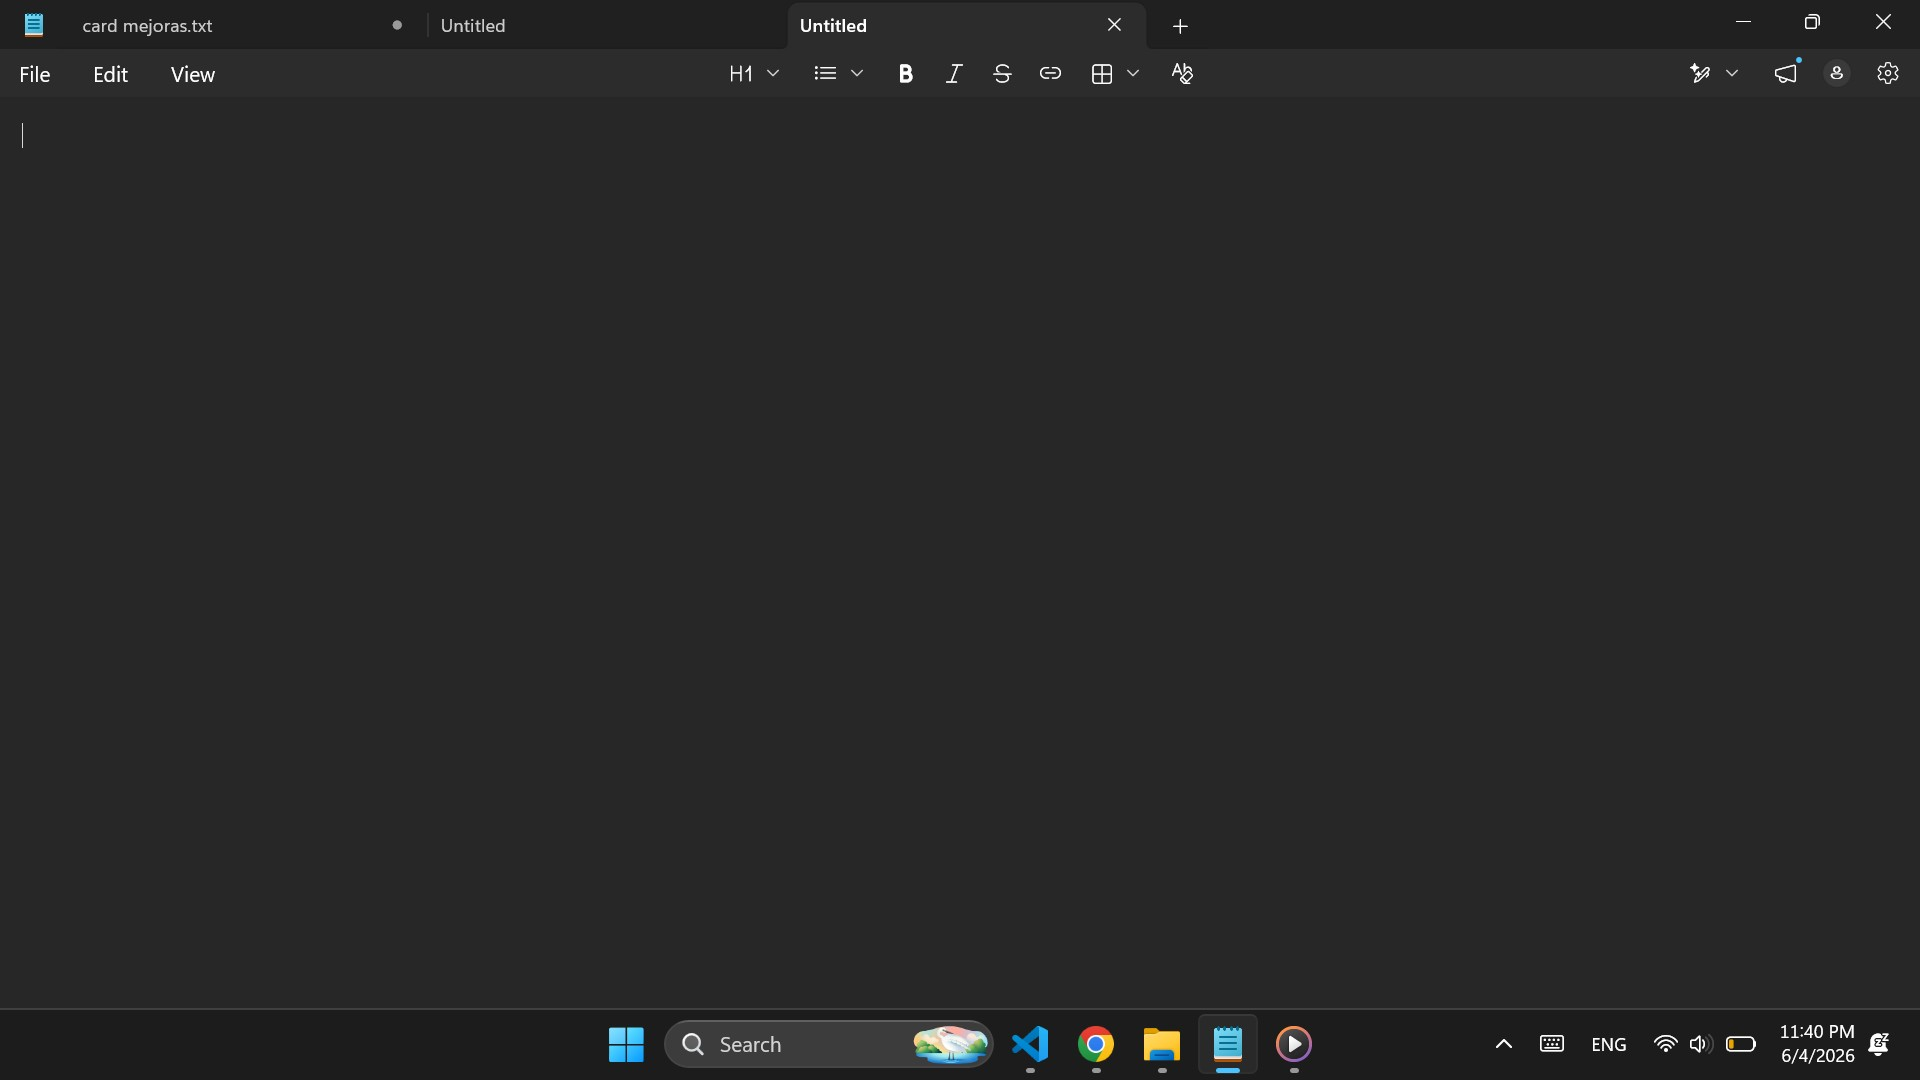
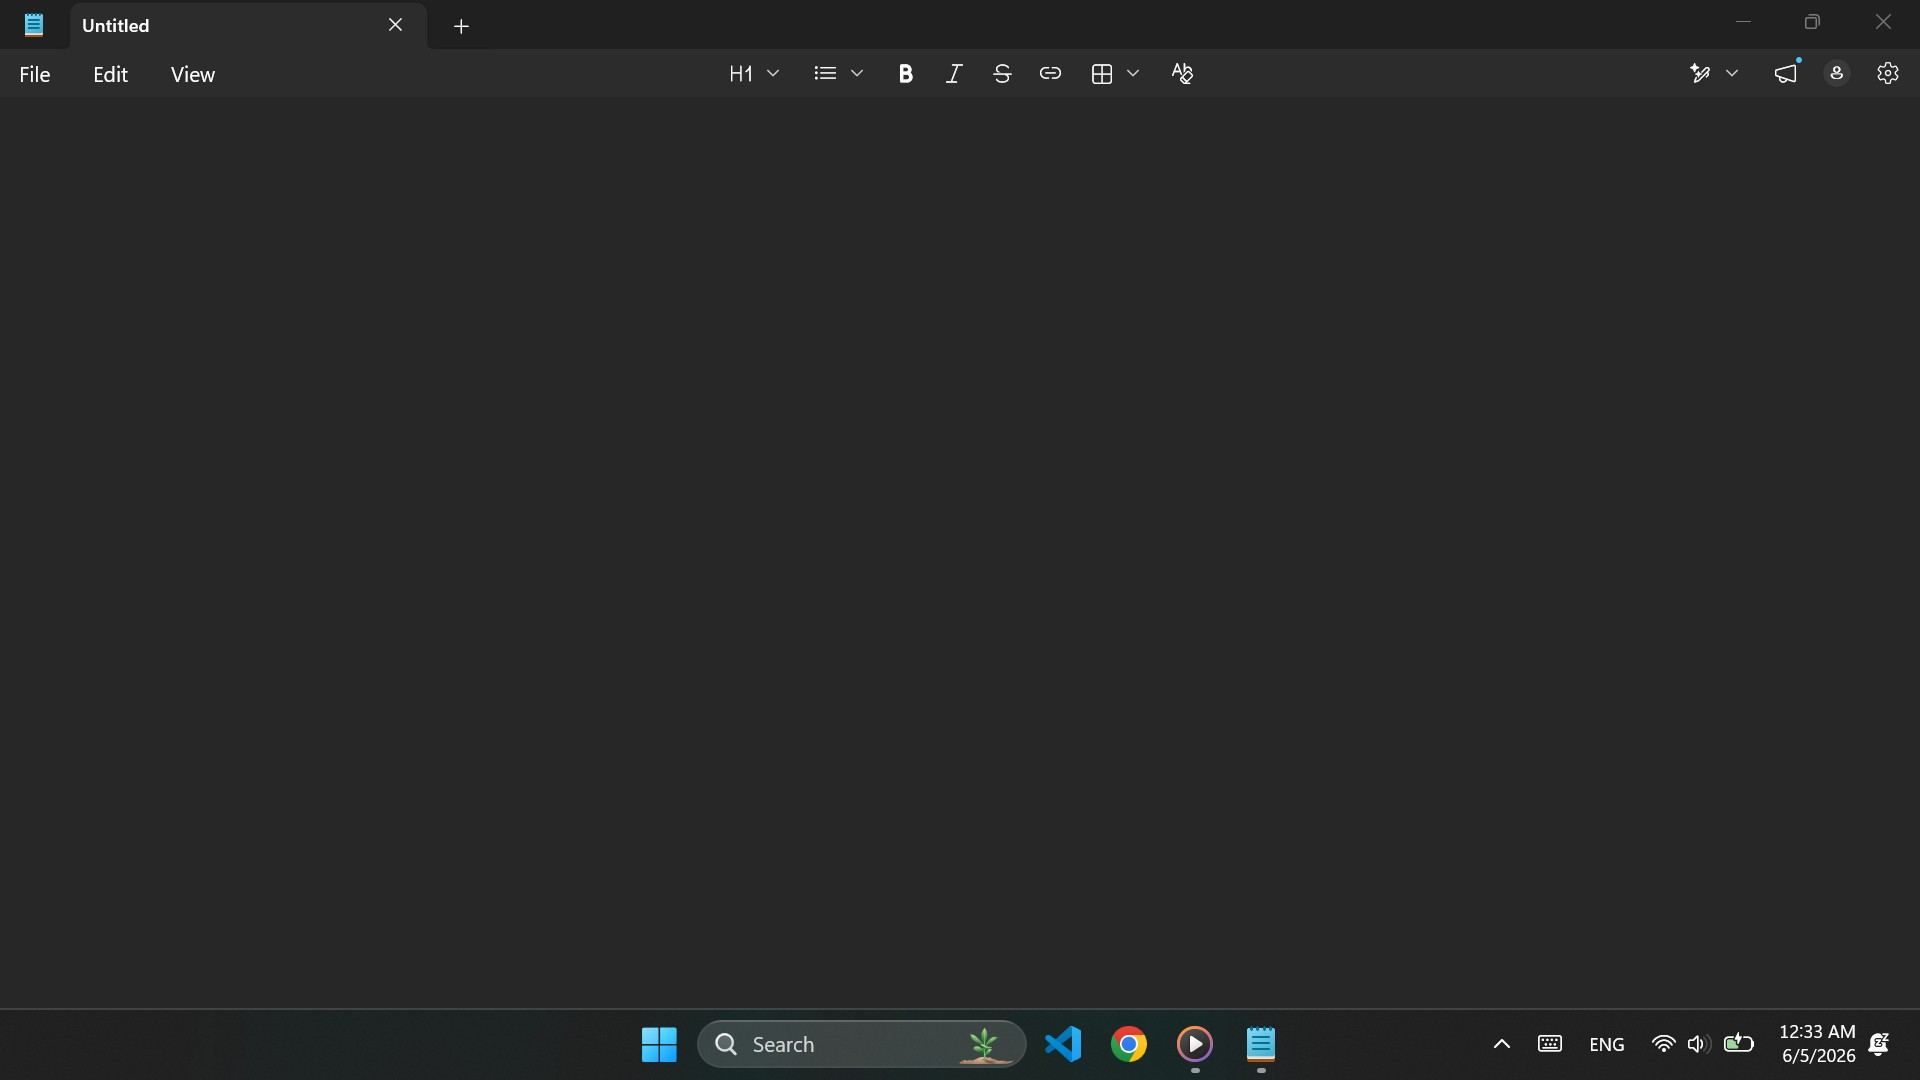
Wrap card image in anchor link and add accessibility attributes

diff --git a/index.html b/index.html
@@ -12,7 +12,9 @@
 
     <div class="card-container">
 
-      <img class="card-image" src="./components/card/assets/tamano-pantalla.jpg" alt="Card Image">
+      <a href="https://ejemplo.com" target="_blank" rel="noopener noreferrer" aria-label="Project website">
+        <img class="card-image" src="./components/card/assets/tamano-pantalla.jpg" alt="Card Image">
+      </a>
       
       <h3 class="card-title">Rock Paper Scissors</h3>
 